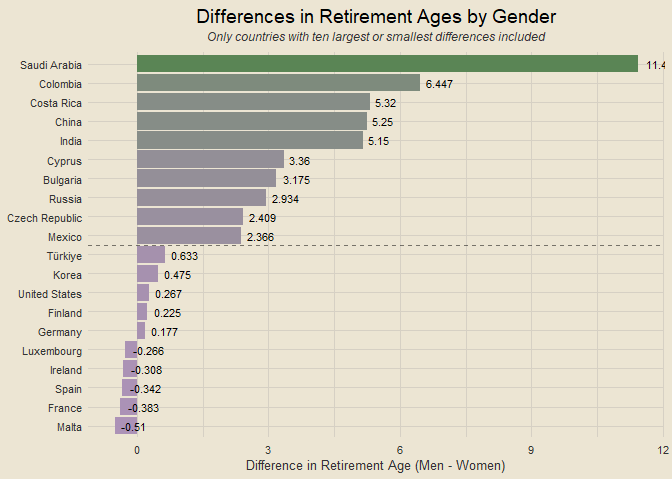
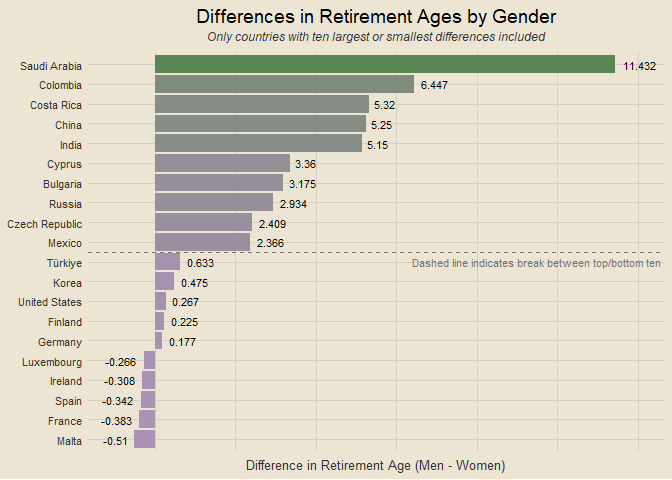
new commit

diff --git a/README.md b/README.md
@@ -11,6 +11,8 @@ Monday](https://data.world/makeovermonday) series.
 - [Importing Required Packages](#importing-required-packages)
 - [2023 Week 14: Chicago Hate Crimes](#week-14-chicago-hate-crimes)
 - [2023 Week 15: The DougScore](#week-15-the-dougscore)
+- [2023 Week 16: Retirement Ages Around the
+  World](#week-16-retirement-ages-around-the-world)
 - [Script Runtime](#script-runtime)
 
 ### Importing Required Packages
@@ -161,7 +163,10 @@ boxplots / vip_plot
 
 *At what age do people retire around the world?*
 
-**This one is still in progress!**
+<details>
+<summary>
+View Code
+</summary>
 
 ``` r
 df = clean_names(read_excel("data/market_exit_age.xlsx")) |>
@@ -194,19 +199,26 @@ df |>
   pivot_wider(id_cols = country, names_from = "gender", values_from = "age") |>
   mutate(diff = men - women) |>
   filter(country %in% c(top_countries, bottom_countries)) |>
+  mutate(pos_lab = ifelse(diff > 0, round(diff, 3), ""),
+         neg_lab = ifelse(diff < 0, round(diff, 3), "")) |>
   ggplot(aes(reorder(country, diff), diff)) +
   geom_col(aes(fill = diff), show.legend = F) +
-  geom_text(aes(label = round(diff, 3)), size = 3, hjust = -0.25) +
-  coord_flip() +
+  geom_text(aes(label = pos_lab), size = 3, hjust = -0.25) +
+  geom_text(aes(label = neg_lab), size = 3, hjust = 1.25) +
+  annotate("text", x = 10, y = 9.5, label = "Dashed line indicates break between top/bottom ten", size = 3, alpha = 0.5) +
+  coord_flip(ylim = c(-1, 12)) +
   scale_fill_gradient(low = "#AC92B7", high = "#5A8555") +
   geom_vline(xintercept = 10.5, linetype = "dashed", alpha = 0.5) +
   labs(x = NULL, y = "Difference in Retirement Age (Men - Women)",
        title = "Differences in Retirement Ages by Gender",
-       subtitle = "Only countries with ten largest or smallest differences included")
+       subtitle = "Only countries with ten largest or smallest differences included") +
+  theme(axis.text.x = element_blank())
 ```
+
+</details>
 
 ![](README_files/figure-gfm/unnamed-chunk-7-1.png)<!-- -->
 
 ### Script Runtime
 
-    ## 5.12 sec elapsed
+    ## 4.57 sec elapsed
